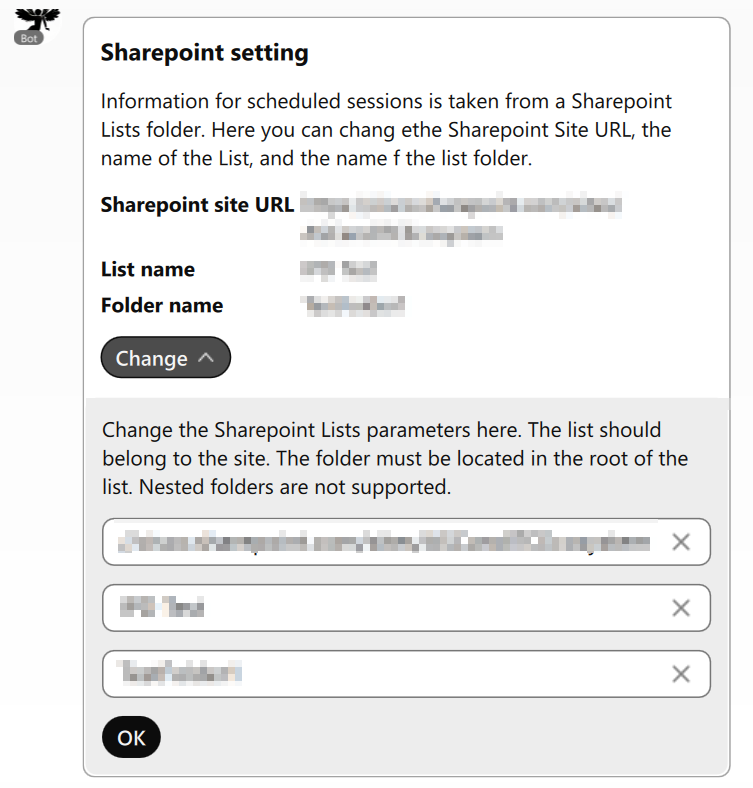
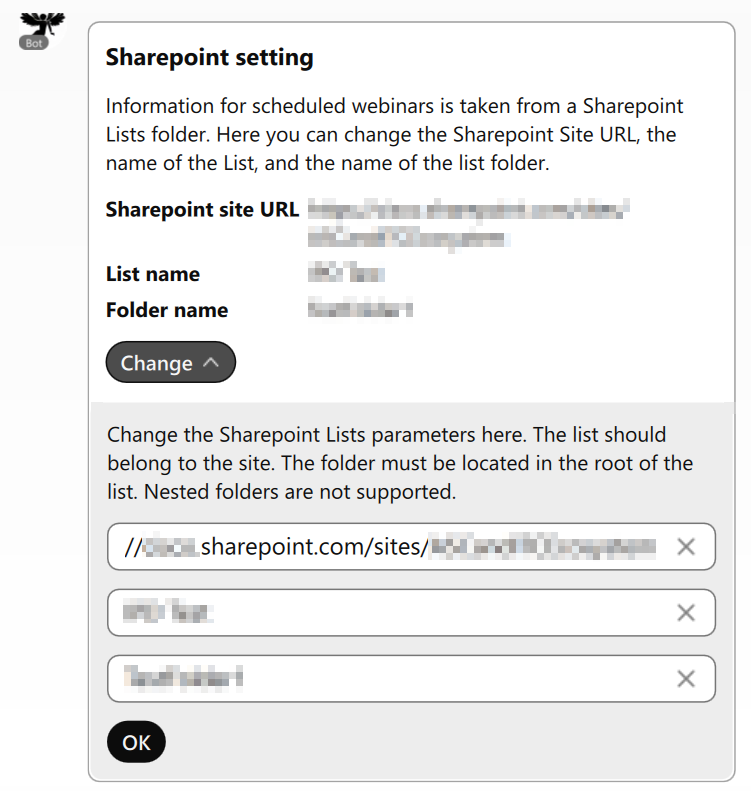
update docs graphics for typo fix

Changed region(s): [[0.0, 0.0, 0.98, 1.0]]

diff --git a/bot.py b/bot.py
@@ -192,7 +192,7 @@ How to set up and get started: https://github.com/zhenyamorozov/sharepoint-webex
                         size=FontSize.MEDIUM,
                     ),
                     TextBlock(
-                        text="Information for scheduled webinars is taken from a Sharepoint Lists folder. Here you can change the Sharepoint Site URL, the name of the List, and the name pf the list folder.",
+                        text="Information for scheduled webinars is taken from a Sharepoint Lists folder. Here you can change the Sharepoint Site URL, the name of the List, and the name of the list folder.",
                         wrap=True,
                     ),
                     FactSet(

diff --git a/docs/get_started.rst b/docs/get_started.rst
@@ -126,7 +126,7 @@ Initialize the bot by @mentioning it and follow instructions on the cards.
 Using the **Set Sharepoint** action button, you can set the working Sharepoint List details: Sharepoint site URL, List name, and working folder name.
 
 .. image:: images/bot-set-sharepoint.png
-    :width: 753
+    :width: 751
     :alt: The bot offers the option change Sharepoint details.
 
 Authorize this automation to create webinars on behalf of a user. The authorization form will open in web browser.
